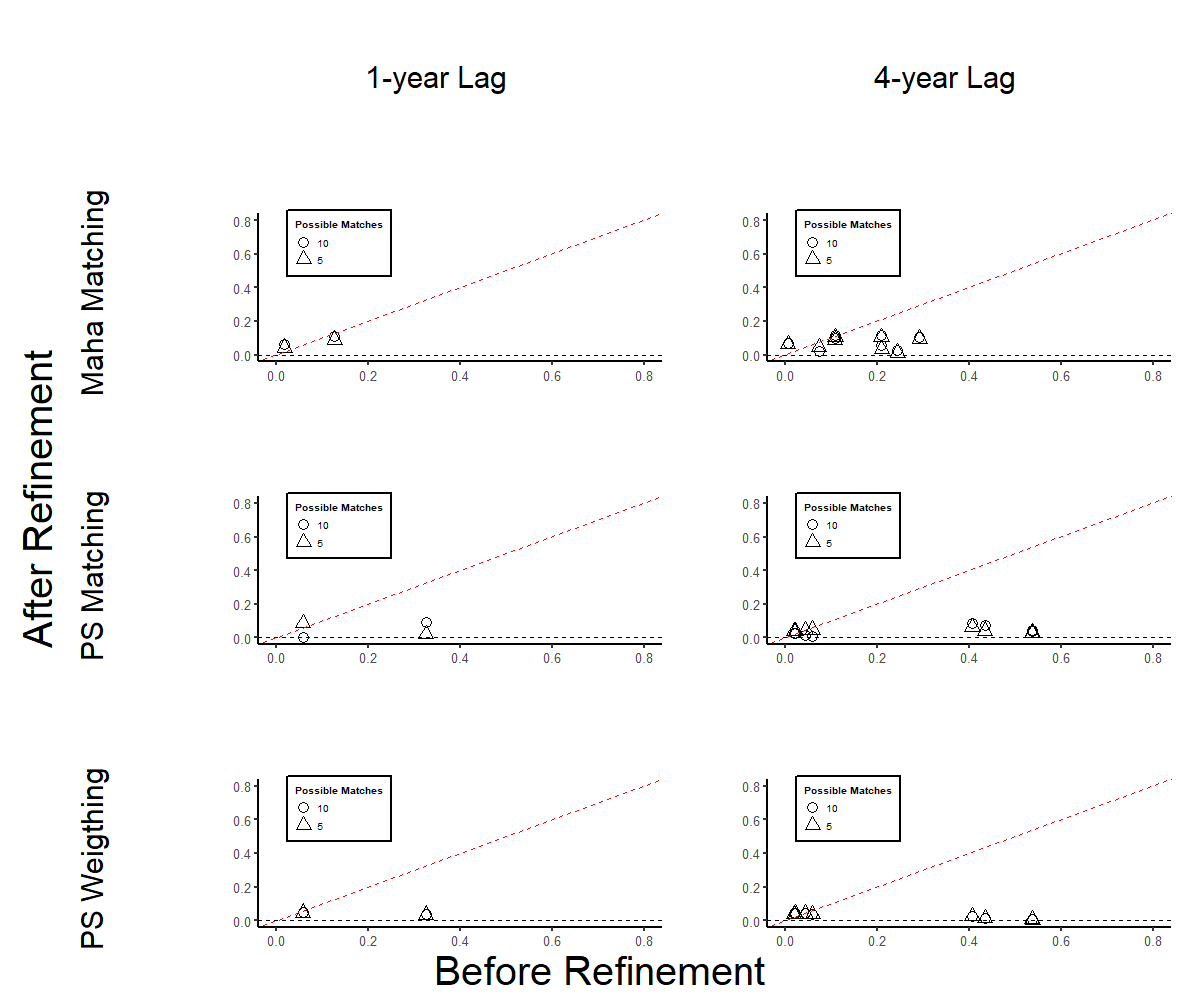
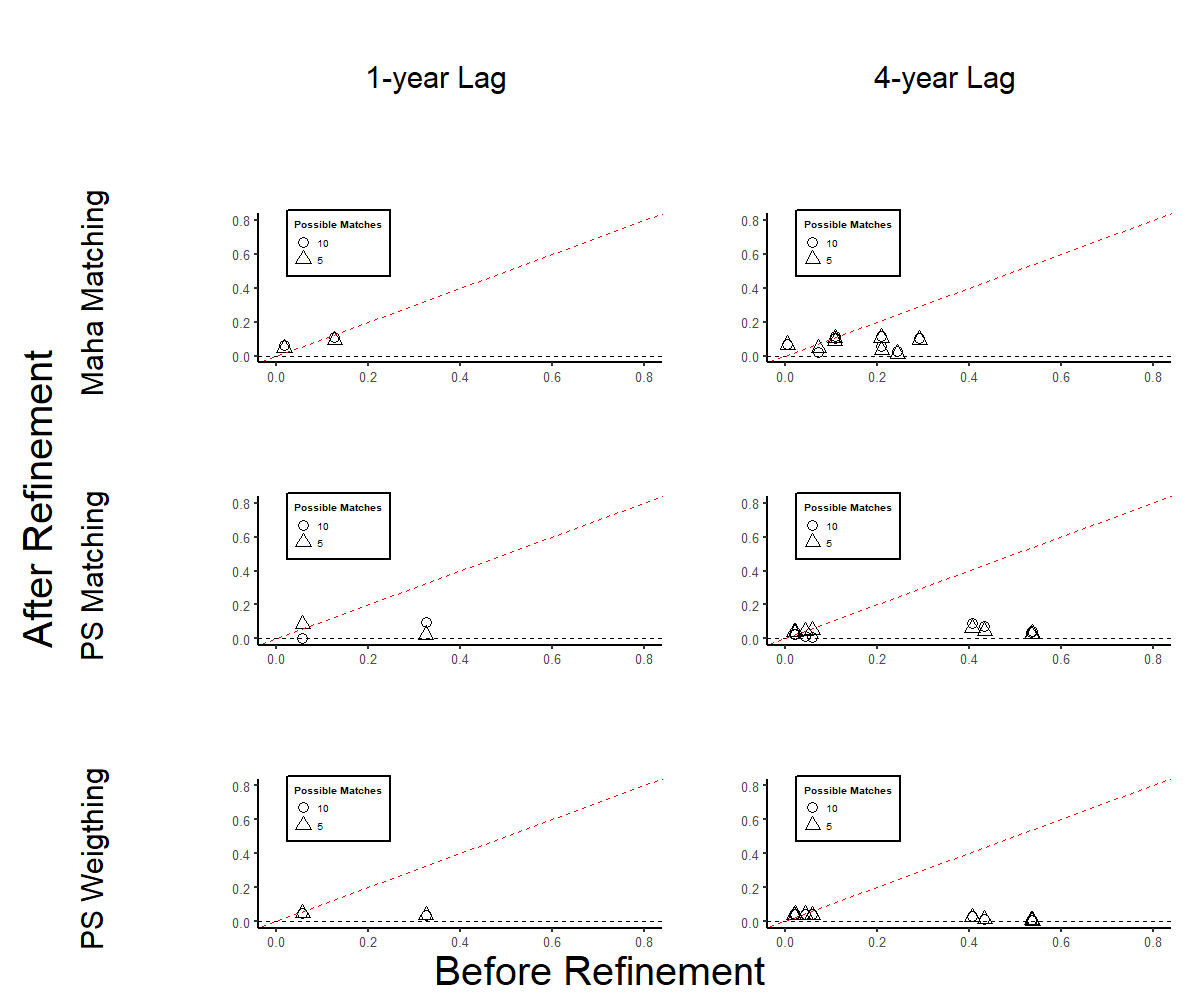
fix R CME check

diff --git a/docs/articles/did.html b/docs/articles/did.html
@@ -82,7 +82,7 @@
                         <h4 data-toc-skip class="author">Mike
 Nguyen</h4>
             
-            <h4 data-toc-skip class="date">2023-09-09</h4>
+            <h4 data-toc-skip class="date">2023-09-10</h4>
       
       
       <div class="hidden name"><code>did.Rmd</code></div>
@@ -171,29 +171,29 @@ data:</p>
 <span>  <span class="op">)</span></span>
 <span></span>
 <span><span class="fu"><a href="https://rdrr.io/r/utils/head.html" class="external-link">head</a></span><span class="op">(</span><span class="va">data</span><span class="op">)</span></span>
-<span><span class="co">#&gt;   entity time treatment   outcome1 outcome2  outcome3 outcome4</span></span>
-<span><span class="co">#&gt; 1      1    1   Treated -0.3344541 1.737494 4.5135872 1.438908</span></span>
-<span><span class="co">#&gt; 2      1    2   Treated -3.8741183 4.692670 3.0924516 1.667047</span></span>
-<span><span class="co">#&gt; 3      1    3   Treated  0.6800051 4.657175 4.1353910 2.656605</span></span>
-<span><span class="co">#&gt; 4      1    4   Treated  1.9787082 4.879680 4.5476948 3.525046</span></span>
-<span><span class="co">#&gt; 5      1    5   Treated  2.3401572 5.239844 2.7093048 6.511383</span></span>
-<span><span class="co">#&gt; 6      1    6   Treated  1.8124029 5.461639 0.6330469 4.910764</span></span>
+<span><span class="co">#&gt;   entity time treatment  outcome1 outcome2  outcome3  outcome4</span></span>
+<span><span class="co">#&gt; 1      1    1   Treated 3.6352573 3.482048 3.4757561 0.1646403</span></span>
+<span><span class="co">#&gt; 2      1    2   Treated 0.4995064 3.187221 4.0530021 2.6297142</span></span>
+<span><span class="co">#&gt; 3      1    3   Treated 4.3323535 2.747813 2.8851025 2.9629997</span></span>
+<span><span class="co">#&gt; 4      1    4   Treated 1.8907168 5.190757 4.4144150 3.8252349</span></span>
+<span><span class="co">#&gt; 5      1    5   Treated 1.3009605 3.933839 5.3871028 4.8983901</span></span>
+<span><span class="co">#&gt; 6      1    6   Treated 4.3343637 4.702404 0.3267027 6.6972961</span></span>
 <span></span>
 <span><span class="fu"><a href="https://rdrr.io/r/base/summary.html" class="external-link">summary</a></span><span class="op">(</span><span class="va">data</span><span class="op">)</span></span>
 <span><span class="co">#&gt;      entity            time       treatment            outcome1     </span></span>
-<span><span class="co">#&gt;  Min.   :  1.00   Min.   : 1.0   Length:1000        Min.   :-4.592  </span></span>
-<span><span class="co">#&gt;  1st Qu.: 25.75   1st Qu.: 3.0   Class :character   1st Qu.: 1.228  </span></span>
-<span><span class="co">#&gt;  Median : 50.50   Median : 5.5   Mode  :character   Median : 2.849  </span></span>
-<span><span class="co">#&gt;  Mean   : 50.50   Mean   : 5.5                      Mean   : 2.825  </span></span>
-<span><span class="co">#&gt;  3rd Qu.: 75.25   3rd Qu.: 8.0                      3rd Qu.: 4.565  </span></span>
-<span><span class="co">#&gt;  Max.   :100.00   Max.   :10.0                      Max.   :10.348  </span></span>
-<span><span class="co">#&gt;     outcome2          outcome3         outcome4      </span></span>
-<span><span class="co">#&gt;  Min.   : 0.9925   Min.   :-6.051   Min.   :-0.4759  </span></span>
-<span><span class="co">#&gt;  1st Qu.: 4.3596   1st Qu.: 3.227   1st Qu.: 4.8709  </span></span>
-<span><span class="co">#&gt;  Median : 5.5039   Median : 5.089   Median : 7.4865  </span></span>
-<span><span class="co">#&gt;  Mean   : 5.5574   Mean   : 5.106   Mean   : 7.5048  </span></span>
-<span><span class="co">#&gt;  3rd Qu.: 6.6930   3rd Qu.: 6.945   3rd Qu.: 9.9538  </span></span>
-<span><span class="co">#&gt;  Max.   :10.1195   Max.   :16.032   Max.   :16.5201</span></span></code></pre></div>
+<span><span class="co">#&gt;  Min.   :  1.00   Min.   : 1.0   Length:1000        Min.   :-5.008  </span></span>
+<span><span class="co">#&gt;  1st Qu.: 25.75   1st Qu.: 3.0   Class :character   1st Qu.: 1.136  </span></span>
+<span><span class="co">#&gt;  Median : 50.50   Median : 5.5   Mode  :character   Median : 2.707  </span></span>
+<span><span class="co">#&gt;  Mean   : 50.50   Mean   : 5.5                      Mean   : 2.746  </span></span>
+<span><span class="co">#&gt;  3rd Qu.: 75.25   3rd Qu.: 8.0                      3rd Qu.: 4.335  </span></span>
+<span><span class="co">#&gt;  Max.   :100.00   Max.   :10.0                      Max.   :11.201  </span></span>
+<span><span class="co">#&gt;     outcome2         outcome3         outcome4      </span></span>
+<span><span class="co">#&gt;  Min.   : 1.001   Min.   :-9.227   Min.   :-0.6093  </span></span>
+<span><span class="co">#&gt;  1st Qu.: 4.481   1st Qu.: 3.065   1st Qu.: 4.8870  </span></span>
+<span><span class="co">#&gt;  Median : 5.707   Median : 5.112   Median : 7.4463  </span></span>
+<span><span class="co">#&gt;  Mean   : 5.669   Mean   : 5.085   Mean   : 7.5141  </span></span>
+<span><span class="co">#&gt;  3rd Qu.: 6.791   3rd Qu.: 7.035   3rd Qu.:10.0801  </span></span>
+<span><span class="co">#&gt;  Max.   :10.538   Max.   :20.094   Max.   :16.6317</span></span></code></pre></div>
 <p>Visualizing Trends with <code>plot_par_trends</code> Invoke the
 <code>plot_par_trends</code> function using the sample data:</p>
 <div class="sourceCode" id="cb4"><pre class="downlit sourceCode r">
@@ -932,7 +932,11 @@ proceed:</p>
 <span>        data <span class="op">=</span> <span class="va">dem</span>,</span>
 <span>        dot.size <span class="op">=</span> <span class="fl">5</span>,</span>
 <span>        <span class="co"># show.legend = F,</span></span>
-<span>        them_use <span class="op">=</span> <span class="fu">causalverse</span><span class="fu">::</span><span class="fu"><a href="../reference/ama_theme.html">ama_theme</a></span><span class="op">(</span>base_size <span class="op">=</span> <span class="fl">32</span><span class="op">)</span>,</span>
+<span>        them_use <span class="op">=</span> <span class="fu">causalverse</span><span class="fu">::</span><span class="fu"><a href="../reference/ama_theme.html">ama_theme</a></span><span class="op">(</span></span>
+<span>          base_size <span class="op">=</span> <span class="fl">32</span>,</span>
+<span>          legend_title_size <span class="op">=</span> <span class="fl">12</span>,</span>
+<span>          legend_text_size <span class="op">=</span> <span class="fl">12</span></span>
+<span>        <span class="op">)</span>, </span>
 <span>        covariates <span class="op">=</span> <span class="fu"><a href="https://rdrr.io/r/base/c.html" class="external-link">c</a></span><span class="op">(</span><span class="st">"y"</span>, <span class="st">"tradewb"</span><span class="op">)</span></span>
 <span>    <span class="op">)</span><span class="op">)</span></span>
 <span><span class="op">}</span></span>
@@ -956,6 +960,7 @@ proceed:</p>
 <span><span class="co">#              ncol=2, nrow=3)</span></span>
 <span></span>
 <span></span>
+<span></span>
 <span><span class="co"># Standardized Mean Difference of Covariates</span></span>
 <span><span class="kw"><a href="https://rdrr.io/r/base/library.html" class="external-link">library</a></span><span class="op">(</span><span class="va">gridExtra</span><span class="op">)</span></span>
 <span><span class="kw"><a href="https://rdrr.io/r/base/library.html" class="external-link">library</a></span><span class="op">(</span><span class="va">grid</span><span class="op">)</span></span>
@@ -964,29 +969,41 @@ proceed:</p>
 <span><span class="va">col_labels</span> <span class="op">&lt;-</span> <span class="fu"><a href="https://rdrr.io/r/base/c.html" class="external-link">c</a></span><span class="op">(</span><span class="st">"1-year Lag"</span>, <span class="st">"4-year Lag"</span><span class="op">)</span></span>
 <span><span class="va">row_labels</span> <span class="op">&lt;-</span> <span class="fu"><a href="https://rdrr.io/r/base/c.html" class="external-link">c</a></span><span class="op">(</span><span class="st">"Maha Matching"</span>, <span class="st">"PS Matching"</span>, <span class="st">"PS Weigthing"</span><span class="op">)</span></span>
 <span></span>
-<span><span class="va">major.axes.fontsize</span> <span class="op">=</span> <span class="fl">40</span></span>
-<span><span class="va">minor.axes.fontsize</span> <span class="op">=</span> <span class="fl">30</span></span>
-<span></span>
-<span><span class="fu"><a href="https://rdrr.io/r/grDevices/png.html" class="external-link">png</a></span><span class="op">(</span><span class="fu"><a href="https://rdrr.io/r/base/file.path.html" class="external-link">file.path</a></span><span class="op">(</span><span class="fu"><a href="https://rdrr.io/r/base/getwd.html" class="external-link">getwd</a></span><span class="op">(</span><span class="op">)</span>, <span class="st">"export"</span>, <span class="st">"balance_scatter.png"</span><span class="op">)</span>, width<span class="op">=</span><span class="fl">1200</span>, height<span class="op">=</span><span class="fl">1000</span><span class="op">)</span></span>
+<span><span class="va">major.axes.fontsize</span> <span class="op">=</span> <span class="fl">20</span></span>
+<span><span class="va">minor.axes.fontsize</span> <span class="op">=</span> <span class="fl">16</span></span></code></pre></div>
+<p>To export</p>
+<div class="sourceCode" id="cb20"><pre class="downlit sourceCode r">
+<code class="sourceCode R"><span></span>
+<span><span class="fu"><a href="https://rdrr.io/r/grDevices/png.html" class="external-link">png</a></span><span class="op">(</span></span>
+<span>  <span class="fu"><a href="https://rdrr.io/r/base/file.path.html" class="external-link">file.path</a></span><span class="op">(</span><span class="fu"><a href="https://rdrr.io/r/base/getwd.html" class="external-link">getwd</a></span><span class="op">(</span><span class="op">)</span>, <span class="st">"export"</span>, <span class="st">"balance_scatter.png"</span><span class="op">)</span>,</span>
+<span>  width <span class="op">=</span> <span class="fl">1200</span>,</span>
+<span>  height <span class="op">=</span> <span class="fl">1000</span></span>
+<span><span class="op">)</span></span>
 <span><span class="co"># Create a list-of-lists, where each inner list represents a row</span></span>
 <span><span class="va">grid_list</span> <span class="op">&lt;-</span> <span class="fu"><a href="https://rdrr.io/r/base/list.html" class="external-link">list</a></span><span class="op">(</span></span>
-<span>    <span class="fu"><a href="https://rdrr.io/r/base/list.html" class="external-link">list</a></span><span class="op">(</span></span>
-<span>        <span class="fu"><a href="https://rdrr.io/r/grid/grid.null.html" class="external-link">nullGrob</a></span><span class="op">(</span><span class="op">)</span>,</span>
-<span>        <span class="fu"><a href="https://rdrr.io/r/grid/grid.text.html" class="external-link">textGrob</a></span><span class="op">(</span><span class="va">col_labels</span><span class="op">[</span><span class="fl">1</span><span class="op">]</span>, gp <span class="op">=</span> <span class="fu"><a href="https://rdrr.io/r/grid/gpar.html" class="external-link">gpar</a></span><span class="op">(</span>fontsize <span class="op">=</span> <span class="va">minor.axes.fontsize</span><span class="op">)</span><span class="op">)</span>,</span>
-<span>        <span class="fu"><a href="https://rdrr.io/r/grid/grid.text.html" class="external-link">textGrob</a></span><span class="op">(</span><span class="va">col_labels</span><span class="op">[</span><span class="fl">2</span><span class="op">]</span>, gp <span class="op">=</span> <span class="fu"><a href="https://rdrr.io/r/grid/gpar.html" class="external-link">gpar</a></span><span class="op">(</span>fontsize <span class="op">=</span> <span class="va">minor.axes.fontsize</span><span class="op">)</span><span class="op">)</span></span>
-<span>    <span class="op">)</span>,</span>
-<span>    </span>
-<span>    <span class="fu"><a href="https://rdrr.io/r/base/list.html" class="external-link">list</a></span><span class="op">(</span><span class="fu"><a href="https://rdrr.io/r/grid/grid.text.html" class="external-link">textGrob</a></span><span class="op">(</span></span>
-<span>        <span class="va">row_labels</span><span class="op">[</span><span class="fl">1</span><span class="op">]</span>, gp <span class="op">=</span> <span class="fu"><a href="https://rdrr.io/r/grid/gpar.html" class="external-link">gpar</a></span><span class="op">(</span>fontsize <span class="op">=</span> <span class="va">minor.axes.fontsize</span><span class="op">)</span>, rot <span class="op">=</span> <span class="fl">90</span></span>
-<span>    <span class="op">)</span>, <span class="va">plots</span><span class="op">[[</span><span class="st">"mahalanobis.1lag"</span><span class="op">]</span><span class="op">]</span>, <span class="va">plots</span><span class="op">[[</span><span class="st">"mahalanobis.4lag"</span><span class="op">]</span><span class="op">]</span><span class="op">)</span>,</span>
-<span>    </span>
-<span>    <span class="fu"><a href="https://rdrr.io/r/base/list.html" class="external-link">list</a></span><span class="op">(</span><span class="fu"><a href="https://rdrr.io/r/grid/grid.text.html" class="external-link">textGrob</a></span><span class="op">(</span></span>
-<span>        <span class="va">row_labels</span><span class="op">[</span><span class="fl">2</span><span class="op">]</span>, gp <span class="op">=</span> <span class="fu"><a href="https://rdrr.io/r/grid/gpar.html" class="external-link">gpar</a></span><span class="op">(</span>fontsize <span class="op">=</span> <span class="va">minor.axes.fontsize</span><span class="op">)</span>, rot <span class="op">=</span> <span class="fl">90</span></span>
-<span>    <span class="op">)</span>, <span class="va">plots</span><span class="op">[[</span><span class="st">"ps.match.1lag"</span><span class="op">]</span><span class="op">]</span>, <span class="va">plots</span><span class="op">[[</span><span class="st">"ps.match.4lag"</span><span class="op">]</span><span class="op">]</span><span class="op">)</span>,</span>
-<span>    </span>
-<span>    <span class="fu"><a href="https://rdrr.io/r/base/list.html" class="external-link">list</a></span><span class="op">(</span><span class="fu"><a href="https://rdrr.io/r/grid/grid.text.html" class="external-link">textGrob</a></span><span class="op">(</span></span>
-<span>        <span class="va">row_labels</span><span class="op">[</span><span class="fl">3</span><span class="op">]</span>, gp <span class="op">=</span> <span class="fu"><a href="https://rdrr.io/r/grid/gpar.html" class="external-link">gpar</a></span><span class="op">(</span>fontsize <span class="op">=</span> <span class="va">minor.axes.fontsize</span><span class="op">)</span>, rot <span class="op">=</span> <span class="fl">90</span></span>
-<span>    <span class="op">)</span>, <span class="va">plots</span><span class="op">[[</span><span class="st">"ps.weight.1lag"</span><span class="op">]</span><span class="op">]</span>, <span class="va">plots</span><span class="op">[[</span><span class="st">"ps.weight.4lag"</span><span class="op">]</span><span class="op">]</span><span class="op">)</span></span>
+<span>  <span class="fu"><a href="https://rdrr.io/r/base/list.html" class="external-link">list</a></span><span class="op">(</span></span>
+<span>    <span class="fu"><a href="https://rdrr.io/r/grid/grid.null.html" class="external-link">nullGrob</a></span><span class="op">(</span><span class="op">)</span>,</span>
+<span>    <span class="fu"><a href="https://rdrr.io/r/grid/grid.text.html" class="external-link">textGrob</a></span><span class="op">(</span><span class="va">col_labels</span><span class="op">[</span><span class="fl">1</span><span class="op">]</span>, gp <span class="op">=</span> <span class="fu"><a href="https://rdrr.io/r/grid/gpar.html" class="external-link">gpar</a></span><span class="op">(</span>fontsize <span class="op">=</span> <span class="va">minor.axes.fontsize</span><span class="op">)</span><span class="op">)</span>,</span>
+<span>    <span class="fu"><a href="https://rdrr.io/r/grid/grid.text.html" class="external-link">textGrob</a></span><span class="op">(</span><span class="va">col_labels</span><span class="op">[</span><span class="fl">2</span><span class="op">]</span>, gp <span class="op">=</span> <span class="fu"><a href="https://rdrr.io/r/grid/gpar.html" class="external-link">gpar</a></span><span class="op">(</span>fontsize <span class="op">=</span> <span class="va">minor.axes.fontsize</span><span class="op">)</span><span class="op">)</span></span>
+<span>  <span class="op">)</span>,</span>
+<span>  </span>
+<span>  <span class="fu"><a href="https://rdrr.io/r/base/list.html" class="external-link">list</a></span><span class="op">(</span><span class="fu"><a href="https://rdrr.io/r/grid/grid.text.html" class="external-link">textGrob</a></span><span class="op">(</span></span>
+<span>    <span class="va">row_labels</span><span class="op">[</span><span class="fl">1</span><span class="op">]</span>,</span>
+<span>    gp <span class="op">=</span> <span class="fu"><a href="https://rdrr.io/r/grid/gpar.html" class="external-link">gpar</a></span><span class="op">(</span>fontsize <span class="op">=</span> <span class="va">minor.axes.fontsize</span><span class="op">)</span>,</span>
+<span>    rot <span class="op">=</span> <span class="fl">90</span></span>
+<span>  <span class="op">)</span>, <span class="va">plots</span><span class="op">[[</span><span class="st">"mahalanobis.1lag"</span><span class="op">]</span><span class="op">]</span>, <span class="va">plots</span><span class="op">[[</span><span class="st">"mahalanobis.4lag"</span><span class="op">]</span><span class="op">]</span><span class="op">)</span>,</span>
+<span>  </span>
+<span>  <span class="fu"><a href="https://rdrr.io/r/base/list.html" class="external-link">list</a></span><span class="op">(</span><span class="fu"><a href="https://rdrr.io/r/grid/grid.text.html" class="external-link">textGrob</a></span><span class="op">(</span></span>
+<span>    <span class="va">row_labels</span><span class="op">[</span><span class="fl">2</span><span class="op">]</span>,</span>
+<span>    gp <span class="op">=</span> <span class="fu"><a href="https://rdrr.io/r/grid/gpar.html" class="external-link">gpar</a></span><span class="op">(</span>fontsize <span class="op">=</span> <span class="va">minor.axes.fontsize</span><span class="op">)</span>,</span>
+<span>    rot <span class="op">=</span> <span class="fl">90</span></span>
+<span>  <span class="op">)</span>, <span class="va">plots</span><span class="op">[[</span><span class="st">"ps.match.1lag"</span><span class="op">]</span><span class="op">]</span>, <span class="va">plots</span><span class="op">[[</span><span class="st">"ps.match.4lag"</span><span class="op">]</span><span class="op">]</span><span class="op">)</span>,</span>
+<span>  </span>
+<span>  <span class="fu"><a href="https://rdrr.io/r/base/list.html" class="external-link">list</a></span><span class="op">(</span><span class="fu"><a href="https://rdrr.io/r/grid/grid.text.html" class="external-link">textGrob</a></span><span class="op">(</span></span>
+<span>    <span class="va">row_labels</span><span class="op">[</span><span class="fl">3</span><span class="op">]</span>,</span>
+<span>    gp <span class="op">=</span> <span class="fu"><a href="https://rdrr.io/r/grid/gpar.html" class="external-link">gpar</a></span><span class="op">(</span>fontsize <span class="op">=</span> <span class="va">minor.axes.fontsize</span><span class="op">)</span>,</span>
+<span>    rot <span class="op">=</span> <span class="fl">90</span></span>
+<span>  <span class="op">)</span>, <span class="va">plots</span><span class="op">[[</span><span class="st">"ps.weight.1lag"</span><span class="op">]</span><span class="op">]</span>, <span class="va">plots</span><span class="op">[[</span><span class="st">"ps.weight.4lag"</span><span class="op">]</span><span class="op">]</span><span class="op">)</span></span>
 <span><span class="op">)</span></span>
 <span></span>
 <span><span class="co"># "Flatten" the list-of-lists into a single list of grobs</span></span>
@@ -1013,13 +1030,12 @@ proceed:</p>
 <span>  rot <span class="op">=</span> <span class="fl">90</span>,</span>
 <span>  gp <span class="op">=</span> <span class="fu"><a href="https://rdrr.io/r/grid/gpar.html" class="external-link">gpar</a></span><span class="op">(</span>fontsize <span class="op">=</span> <span class="va">major.axes.fontsize</span><span class="op">)</span></span>
 <span><span class="op">)</span></span>
-<span><span class="fu"><a href="https://rdrr.io/r/grDevices/dev.html" class="external-link">dev.off</a></span><span class="op">(</span><span class="op">)</span></span>
-<span><span class="co">#&gt; agg_png </span></span>
-<span><span class="co">#&gt;       2</span></span></code></pre></div>
-<div class="sourceCode" id="cb20"><pre class="downlit sourceCode r">
+<span><span class="fu"><a href="https://rdrr.io/r/grDevices/dev.html" class="external-link">dev.off</a></span><span class="op">(</span><span class="op">)</span></span></code></pre></div>
+<div class="sourceCode" id="cb21"><pre class="downlit sourceCode r">
 <code class="sourceCode R"><span><span class="kw"><a href="https://rdrr.io/r/base/library.html" class="external-link">library</a></span><span class="op">(</span><span class="va"><a href="https://yihui.org/knitr/" class="external-link">knitr</a></span><span class="op">)</span></span>
 <span><span class="fu"><a href="https://rdrr.io/pkg/knitr/man/include_graphics.html" class="external-link">include_graphics</a></span><span class="op">(</span><span class="fu"><a href="https://rdrr.io/r/base/file.path.html" class="external-link">file.path</a></span><span class="op">(</span><span class="fu"><a href="https://rdrr.io/r/base/getwd.html" class="external-link">getwd</a></span><span class="op">(</span><span class="op">)</span>, <span class="st">"export"</span>, <span class="st">"balance_scatter.png"</span><span class="op">)</span><span class="op">)</span></span></code></pre></div>
-<p><img src="export/balance_scatter.png" width="100%"></p>
+<p>I do not include it in this vignette due to display issues, but the
+code can be easily replicated.</p>
 </div>
 <div class="section level4">
 <h4 id="balance-trends-over-pre-treatment-periods">Balance Trends over Pre-treatment Periods<a class="anchor" aria-label="anchor" href="#balance-trends-over-pre-treatment-periods"></a>
@@ -1029,7 +1045,7 @@ proceed:</p>
 object. Therefore, it is necessary to construct our own visualization.
 However, one can utilize the output dataset from
 <code>get_covariate_balance</code> for this purpose.</p>
-<div class="sourceCode" id="cb21"><pre class="downlit sourceCode r">
+<div class="sourceCode" id="cb22"><pre class="downlit sourceCode r">
 <code class="sourceCode R"><span><span class="va">PM.results.ps.weight</span> <span class="op">&lt;-</span></span>
 <span>    <span class="fu"><a href="https://rdrr.io/pkg/PanelMatch/man/PanelMatch.html" class="external-link">PanelMatch</a></span><span class="op">(</span></span>
 <span>        lag <span class="op">=</span> <span class="fl">4</span>,</span>
@@ -1055,7 +1071,7 @@ However, one can utilize the output dataset from
 <span><span class="op">)</span></span>
 <span></span>
 <span><span class="fu"><a href="../reference/plot_covariate_balance_pretrend.html">plot_covariate_balance_pretrend</a></span><span class="op">(</span><span class="va">df</span><span class="op">)</span></span></code></pre></div>
-<p><img src="did_files/figure-html/unnamed-chunk-19-1.png" width="700"></p>
+<p><img src="did_files/figure-html/unnamed-chunk-20-1.png" width="700"></p>
 <p>We must also examine multiple matching and refining methods to ensure
 that we have robust evidence for covariate balance over the
 pre-treatment time period.</p>

diff --git a/docs/articles/introduction.html b/docs/articles/introduction.html
@@ -82,7 +82,7 @@
                         <h4 data-toc-skip class="author">Mike
 Nguyen</h4>
             
-            <h4 data-toc-skip class="date">2023-09-09</h4>
+            <h4 data-toc-skip class="date">2023-09-10</h4>
       
       
       <div class="hidden name"><code>introduction.Rmd</code></div>
